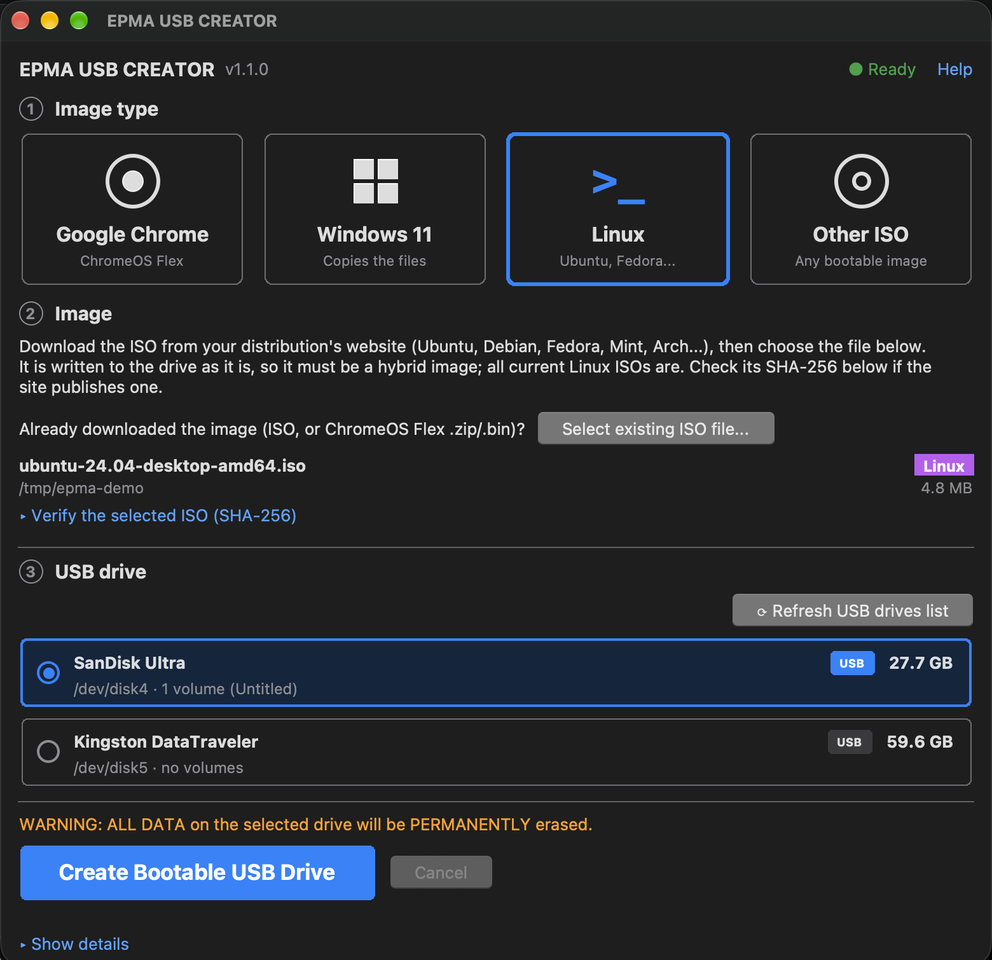
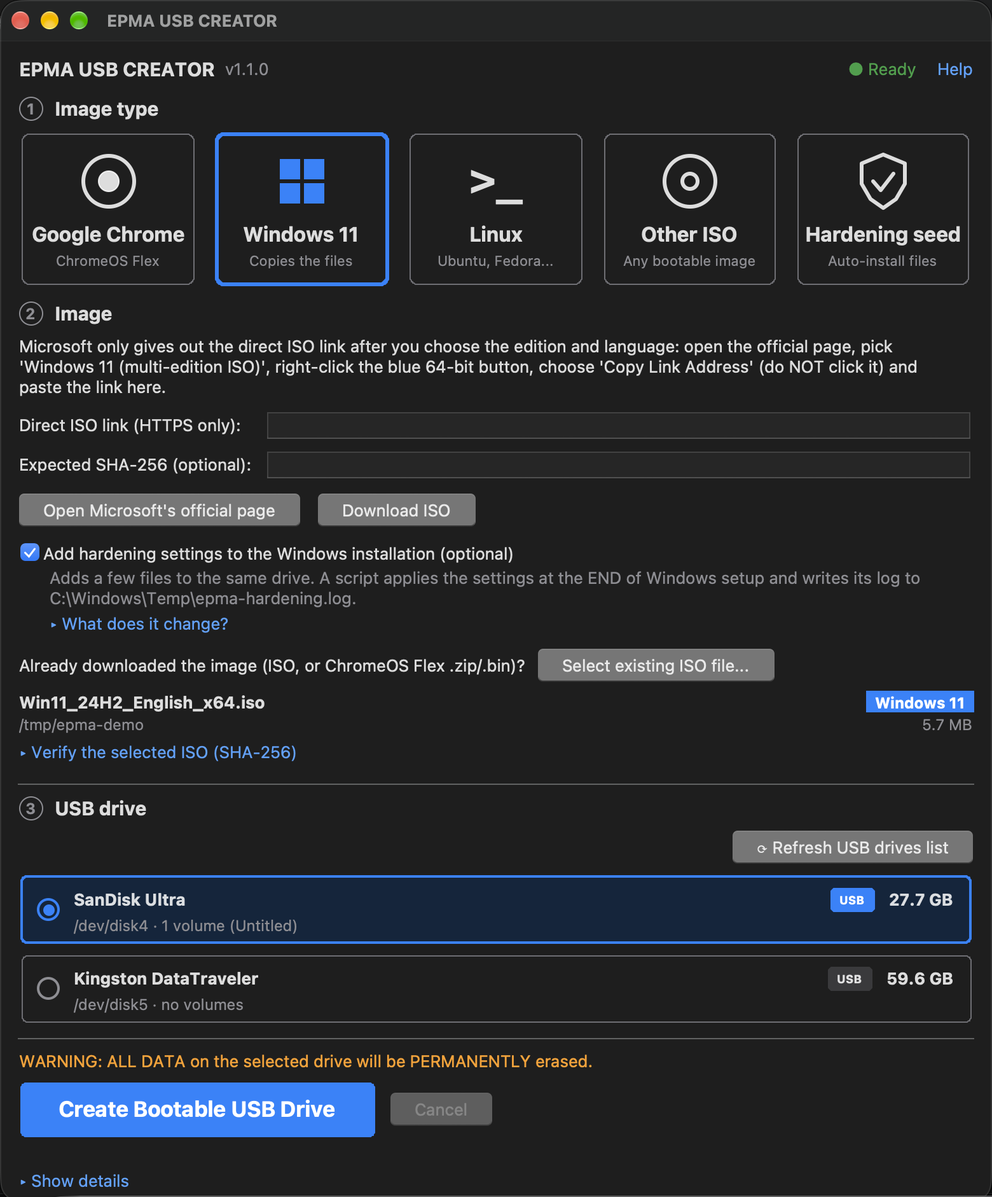
Hardening: documentation, help (F1), README (en/pt-BR), release notes, security notes and screenshots

Changed region(s): [[0.0, 0.0, 1.0, 1.0], [0.8615, 0.0311, 0.9231, 0.0934], [0.9538, 0.0311, 0.9846, 0.0934]]

diff --git a/win11_usb_creator.py b/win11_usb_creator.py
@@ -6634,22 +6634,26 @@ def help_sections():
     critical_mounts = ", ".join(CRITICAL_MOUNTPOINTS)
     retries = DOWNLOAD_MAX_ATTEMPTS - 1
     audit_mb = f"{AUDIT_LOG_MAX_BYTES / 1_000_000:g}"
+    windows_settings = "\n".join("• " + line.split(" -- risk:")[0] for line in
+                                 describe_hardening_windows(HARDENING_BASELINE))
+    windows_not_changed = "\n".join("• " + text + ": " + why for _id, text, why in WINDOWS_HARDENING_NOT_CHANGED)
     return [
         ("Overview", f"""EPMA USB CREATOR {__version__} writes a bootable USB drive from an ISO image on macOS and Linux.
 
-## Four image types (the four cards)
+## Four image types and the hardening seed (five cards)
 • Google Chrome — ChromeOS Flex, Google's free ChromeOS for PCs and Macs. The disk image is written byte for byte, like a Linux ISO. The program can download Google's official image for you.
 • Windows 11 — erases the drive, creates a GPT partition table with one FAT32 partition (label {VOL_NAME}) and copies the files of the ISO. The result boots on UEFI computers. Windows' install.wim / install.esd is usually larger than the 4 GB FAT32 limit, so it is split into .swm parts with wimlib-imagex.
 • Linux and Other ISO — both write the ISO byte for byte to the whole drive (like dd). Use Linux for Ubuntu, Debian, Fedora, Mint, Arch and other "hybrid" images, and Other ISO for any other bootable image. An ISO that cannot boot from a USB drive is refused before anything is erased.
+• Hardening seed (optional, the fifth card) — needs no image. It erases a second, small USB drive and writes auto-install settings on it for Ubuntu, Fedora/RHEL or Debian. See "Hardened setup (optional)".
 
 ## What always happens
 • Only drives attached over USB are offered. The system disk and internal disks are never listed.
 • Everything on the selected drive is erased. Nothing is kept.
-• After writing, the drive is read back and compared with the ISO. Only a drive that passes is ejected.
+• After writing, the drive is read back and compared with the ISO (a hardening seed drive: every file compared byte for byte). Only a drive that passes is ejected.
 
 ## The window, from top to bottom
 • The top row shows the program name and version, a status chip for the tools it needs ("Ready" in green, "Missing tools" in amber with "Install missing dependencies" next to it) and "Help", which opens this documentation (F1 does the same).
-• The page has three numbered steps. 1 Image type: four equal cards choose the type of image (Google Chrome (ChromeOS Flex), Windows 11, Linux and Other ISO).
+• The page has three numbered steps. 1 Image type: five equal cards. Four choose the type of image (Google Chrome (ChromeOS Flex), Windows 11, Linux and Other ISO); the fifth, "Hardening seed", makes a separate drive and needs no image file.
 • 2 Image: the panel under the cards changes with the card and shows where to get that kind of image. "Select existing ISO file..." picks the image you already have; the chosen file is shown with its name, folder, size and the type the program recognised (Windows 11, Linux, ChromeOS Flex or Unknown), with an optional SHA-256 check behind a link.
 • 3 USB drive: the list of USB drives (read when the program starts and whenever you return to the window) and "Refresh USB drives list".
 • "Create Bootable USB Drive" (the blue button), the one "Cancel" button for whatever is running (a download, an extraction or the write), its progress bar, and "Show details", which opens the log.
@@ -6668,7 +6672,10 @@ def help_sections():
 • Plug in the USB drive (8 GB or more) and click "Refresh USB drives list". Select your drive.
 • The "Windows 11" card is chosen for you when the ISO is a Windows installer.
 • Click "Create Bootable USB Drive", read the confirmation (model, size, volumes) and confirm.
-• Wait for the progress bar. When the log says the drive was verified and ejected, unplug it.
+• Wait for the progress bar. When the green box says the drive was verified and ejected, unplug it.
+
+## Optional: hardened settings
+• On the "Windows 11" card, tick "Add hardening settings to the Windows installation (optional)" before you click Create. Click "What does it change?" to read the list. See "Hardened setup (optional)" for what it does and does not do.
 
 ## 3. Boot from it
 • The computer must start in UEFI mode (not Legacy/CSM). The drive is UEFI + GPT only.
@@ -6684,10 +6691,43 @@ def help_sections():
 • Confirm. The administrator password is requested before the drive is touched.
 • The ISO is written, then read back and compared, then the drive is ejected.
 
+## Optional: a hardened install
+• Linux ISOs cannot take extra files after they are written, so the hardening settings go on a SECOND, small USB drive made with the "Hardening seed" card. See "Hardened setup (optional)".
+
 ## 3. On macOS: the drive will not appear in Finder
 • macOS cannot read Linux (ISO 9660 / ext) images, so Finder shows nothing and macOS may say "The disk you attached was not readable".
 • Click "Ignore". Never click "Initialize" — it would erase what was just written.
 • This is normal. The content was already verified byte for byte."""),
+
+        ("Hardened setup (optional)", f"""## What it is
+• Optional files that make a fresh install start from safer settings ("Hardened (recommended settings)"). The settings are inspired by common security baselines. This program does NOT claim that the result complies with, or is certified by, any standard.
+• Nothing here chooses a disk, creates an account or sets a password or key. Windows Setup and the Linux installers stay interactive: you still pick the disk, the language and your own account.
+• Every hardening script prints each change, keeps a backup of anything it modifies and can be undone. They were checked with simulated systems and automated tests only, so try them on a spare computer or a virtual machine before relying on them.
+• Want to read the files first? The command line "harden-files" writes them into a folder without touching any drive.
+
+## Windows 11 (same USB drive)
+• Tick "Add hardening settings to the Windows installation (optional)" on the "Windows 11" card. The files are copied onto the same USB drive and checked byte for byte with the rest.
+• Windows Setup runs a script at the END of the installation. Its log will be C:\\Windows\\Temp\\epma-hardening.log. The script runs once and does not retry: a line marked [WARN] means a setting was not in effect (for example another antivirus or Tamper Protection got in the way).
+• If the image already contains one of these files, the program stops BEFORE erasing the drive and tells you, because the files would replace the image's own.
+
+## What the Windows option changes
+{windows_settings}
+
+## What it deliberately leaves alone
+{windows_not_changed}
+
+## Linux and others (a second USB drive)
+• Choose the "Hardening seed" card, pick the target system, select a small USB drive (64 MiB or more) and click "Create Seed Drive". The drive is erased and checked like any other; it is NOT an installer.
+• Keep your normal installer USB and plug the seed drive in next to it before you start the installer.
+• Ubuntu (autoinstall): the drive is named CIDATA. At the boot menu add the word autoinstall to the boot line (the README.txt on the drive shows the exact steps). Every installer screen stays interactive.
+• Fedora / RHEL (kickstart): the drive is named OEMDRV and the installer finds it by itself. Disk, accounts and the summary stay interactive.
+• Debian (script + preseed): the installer does NOT find this drive by itself. After installing, mount the drive and run the script as administrator (sudo bash harden-linux.sh, or su - if there is no sudo).
+• The script harden-linux.sh is a plain text file on the drive: read it before you use it. It supports --dry-run (changes nothing), --yes, --undo and --help, and it appends to /var/log/epma-hardening.log.
+• It tries not to lock you out of SSH: it only turns off root login or password login when an administrator account with a key exists, and it says so. It does not enable a firewall on a computer that runs Docker, libvirt or LXD unless you pass --yes. Test a second SSH session before you close the first.
+
+## Undo
+• Linux: run the script again with --undo. It restores the files it backed up and removes the ones it created. It does not uninstall packages or turn services off.
+• Windows: the changes are ordinary Windows settings; the log lists each one.""".replace("\\\\", "\\")),
 
         ("ChromeOS Flex", """## What it is
 • ChromeOS Flex is Google's free version of ChromeOS for PCs and Macs. It is the official way to run ChromeOS on a computer you already own: Google does not publish regular ChromeOS for ordinary computers, so this program does not offer it.
@@ -6740,10 +6780,11 @@ def help_sections():
 
         ("The drive and the Create button", f"""## The cards
 • Google Chrome (ChromeOS Flex, disk image written directly), Windows 11 (GPT + FAT32, files copied), Linux and Other ISO (the ISO is written directly). The card is chosen from the image contents when you select a file; you can change it.
+• Hardening seed: a separate small drive (GPT + FAT32) with auto-install files; no image file is needed, so the image step is hidden and the button reads "Create Seed Drive".
 
 ## Dependencies
 • Windows mode needs wimlib (macOS: brew install wimlib). On Linux it also needs parted, mkfs.vfat (dosfstools), wipefs, partprobe, rsync and wimlib-imagex.
-• The Google Chrome, Linux and Other ISO cards need nothing extra.
+• The Google Chrome, Linux and Other ISO cards need nothing extra. The Hardening seed card needs only parted, mkfs.vfat, wipefs and partprobe on Linux and nothing extra on macOS.
 • The dependencies are checked before anything is erased. When one is missing, the Create button stays disabled and a hint says what to install.
 • "Install missing dependencies" uses your package manager (apt-get, dnf, yum, pacman, zypper, apk or Homebrew) and asks for the administrator password on Linux.
 
@@ -9013,7 +9054,7 @@ class App(_TkBase):
             return
         if seed:  # a drive known to be too small is refused now, before the confirmation, not after it
             try:
-                check_seed_target_size(disk_size)  # noqa: F821 - added by the engine part of the hardening feature
+                check_seed_target_size(disk_size)
             except ValueError as e:
                 messagebox.showerror(_("Drive too small"), str(e))
                 return
@@ -10009,7 +10050,7 @@ def _prepare_seed(args):
         raise CliError(f"/dev/{disk_id} is not an eligible USB drive. "
                        f"Run '{CLI_PROG} list' to see the drives that can be written.")
     try:  # a drive known to be too small is refused first: before the plan, the dry run and any confirmation
-        check_seed_target_size(disk.get("size"))  # noqa: F821 - added by the engine part of the hardening feature
+        check_seed_target_size(disk.get("size"))
     except ValueError as e:
         raise CliError(str(e), EXIT_USAGE) from None
     label, files = _hardening_files(args.target)

diff --git a/README.pt-BR.md b/README.pt-BR.md
@@ -18,7 +18,7 @@ Escrita em Python puro com Tkinter — **sem dependências de bibliotecas Python
 [![CI](https://github.com/1985epma/epma-windows-usb-creator/actions/workflows/ci.yml/badge.svg)](https://github.com/1985epma/epma-windows-usb-creator/actions/workflows/ci.yml)
 
 <p align="center">
-  <img src="docs/images/interface.png" alt="Janela do EPMA USB CREATOR: quatro cartões de tipo de imagem (Google Chrome, Windows 11, Linux, Other ISO), a lista de pendrives, o arquivo da imagem com a conferência SHA-256 e o botão Create Bootable USB Drive" width="620">
+  <img src="docs/images/interface.png" alt="Janela do EPMA USB CREATOR: cinco cartões (Google Chrome, Windows 11, Linux, Other ISO, Hardening seed), a opção de reforço do Windows, a lista de pendrives e o botão Create Bootable USB Drive" width="620">
   <br><em>O programa inteiro em uma janela: escolha o tipo de imagem, o pendrive e o arquivo, e crie.</em>
 </p>
 
@@ -57,8 +57,9 @@ Escrita em Python puro com Tkinter — **sem dependências de bibliotecas Python
 - **Conferência SHA-256 de uma ISO que você já tem** (cole o valor esperado ou uma linha de `SHA256SUMS`).
 - **Download com retomada** e novas tentativas automáticas.
 - **Modo linha de comando** (`list`, `write`, `detect`, `sha256`, `--dry-run`, saída JSON, códigos de saída) para scripts.
-- **Documentação integrada**: abra **Help → EPMA USB CREATOR Help** (ou tecle **F1**) para ver guias rápidos, uma referência da janela e dos quatro cartões, segurança, verificação e eject, linha de comando, solução de problemas e os arquivos/configurações usados (a documentação da janela é em inglês).
+- **Documentação integrada**: abra **Help → EPMA USB CREATOR Help** (ou tecle **F1**) para ver guias rápidos, uma referência da janela e dos cinco cartões, segurança, verificação e eject, linha de comando, solução de problemas e os arquivos/configurações usados (a documentação da janela é em inglês).
 - **Verificação de integridade**: downloads só por HTTPS, avisos para servidores desconhecidos e o checksum SHA-256 da imagem baixada.
+- **Reforço da instalação (opcional, experimental):** uma opção do Windows e um pendrive *Hardening seed* para Ubuntu, Fedora/RHEL e Debian que fazem uma instalação nova começar com configurações mais seguras; veja [Reforço da instalação](#reforço-da-instalação-opcional).
 - **Log em tempo real** de todos os comandos executados, dentro da própria janela: abra **Show details** para lê-lo (ele abre sozinho quando uma gravação falha).
 
 ## Novidades da 1.1.0
@@ -173,7 +174,7 @@ python3 win11_usb_creator.py
 
 ### A janela
 
-Uma janela só, com três etapas numeradas — **1 Image type** (quatro cartões), **2 Image** (onde obter e o arquivo) e **3 USB drive** — e o botão **Create**. Um cabeçalho fino mostra a versão, um indicador **Ready** / **Missing tools** das ferramentas necessárias e o **Help**.
+Uma janela só, com três etapas numeradas — **1 Image type** (cinco cartões: os quatro tipos de imagem e o opcional **Hardening seed**), **2 Image** (onde obter e o arquivo) e **3 USB drive** — e o botão **Create**. Um cabeçalho fino mostra a versão, um indicador **Ready** / **Missing tools** das ferramentas necessárias e o **Help**.
 
 1. **Escolha um cartão** — *Google Chrome* (ChromeOS Flex), *Windows 11*, *Linux* ou *Other ISO*. O painel sob os cartões mostra onde obter esse tipo de imagem. Ao selecionar um arquivo de imagem, o cartão certo é escolhido para você, pelo **conteúdo** do arquivo.
 2. **Obtenha a imagem** (pule se já tiver):
@@ -208,6 +209,26 @@ O [ChromeOS Flex](https://support.google.com/chromeosflex/answer/11541904) é a 
 
 O Google lista estes requisitos para o computador: processador Intel ou AMD de 64 bits, 4 GB de RAM, 16 GB de armazenamento interno e boot por USB; só garante modelos certificados ([requisitos](https://support.google.com/chromeosflex/answer/11552529)). O Google também avisa que alguns pendrives podem não funcionar como instaladores. O ChromeOS Flex é fornecido pelo Google sob os termos do próprio Google.
 
+### Reforço da instalação (opcional)
+
+Arquivos opcionais para que uma instalação nova comece com configurações mais seguras. Eles são **inspirados em baselines de segurança comuns**; o programa **não** afirma que o resultado esteja em conformidade com, ou certificado por, qualquer padrão. Nada aqui escolhe disco, cria conta nem define senha ou chave: o Windows Setup e os instaladores Linux continuam interativos.
+
+> **Experimental.** Os scripts foram verificados só com testes automatizados e sistemas simulados (nenhuma instalação real de Windows, Debian, Ubuntu ou Fedora foi executada). Teste primeiro em um computador reserva ou numa máquina virtual e leia os arquivos antes de usar: o `harden-files` grava tudo numa pasta, sem tocar em nenhum pendrive.
+
+<p align="center">
+  <img src="docs/images/interface-hardening.png" alt="O cartão Hardening seed: um segundo pendrive pequeno com configurações de instalação automática, o sistema de destino (Ubuntu, Fedora / RHEL, Debian) e o botão Create Seed Drive" width="620">
+</p>
+
+- **Windows 11 (no mesmo pendrive):** marque **"Add hardening settings to the Windows installation (optional)"** no cartão Windows 11. Um script roda no **fim** da instalação do Windows (log: `C:\Windows\Temp\epma-hardening.log`) e desliga SMBv1 e LLMNR e o AutoRun/AutoPlay, liga o firewall, aplica algumas proteções do Microsoft Defender (uma regra de redução de superfície em modo Block e quatro em modo Audit), desativa o recurso PowerShell 2.0 e o cache de credenciais WDigest, liga o log de blocos de script e uma política de auditoria avançada (o log de Segurança sobe para 128 MiB). **"What does it change?"** lista cada ajuste com o seu risco. BitLocker, níveis de NTLM, contas, discos, idioma e chave do produto não são alterados. Os arquivos são conferidos byte a byte junto com o resto do pendrive, e se a imagem já contiver algum deles o programa para **antes** de apagar qualquer coisa.
+- **Linux e outros (um segundo pendrive):** ISOs gravadas direto não aceitam arquivos extras, então o cartão **Hardening seed** apaga um **segundo pendrive pequeno** (GPT + FAT32) e grava os arquivos nele. Mantenha o pendrive do instalador e conecte o do kit ao lado. **Ubuntu** (`autoinstall`, rótulo `CIDATA`; acrescente `autoinstall` na linha de boot, todas as telas continuam interativas), **Fedora / RHEL** (kickstart, rótulo `OEMDRV`, o instalador encontra sozinho) e **Debian** (o instalador **não** encontra o pendrive: monte-o depois de instalar e rode `sudo bash harden-linux.sh`, ou `su -` se não houver sudo).
+- **O script Linux** (`harden-linux.sh`) é texto puro, aceita `--dry-run`, `--yes`, `--undo` e `--help`, guarda cópia de cada arquivo que altera (`.epma-bak`), mostra cada mudança e grava em `/var/log/epma-hardening.log`. É idempotente e tenta não trancar você para fora: login de root ou por senha no SSH só é desligado quando existe uma conta de administrador com chave, e o firewall não é ligado num computador com Docker, libvirt ou LXD, a não ser que você use `--yes`.
+
+```bash
+python3 win11_usb_creator.py harden-files --target ubuntu --out ./ubuntu-seed          # só os arquivos, sem pendrive
+python3 win11_usb_creator.py harden-seed --target fedora --disk disk4 --dry-run        # plano de um pendrive de kit
+python3 win11_usb_creator.py write --iso Win11.iso --disk disk4 --hardened             # Windows + arquivos de reforço
+```
+
 ### Linha de comando
 
 O mesmo motor está disponível sem a janela (não precisa de Tkinter):
@@ -222,6 +243,8 @@ python3 win11_usb_creator.py write --iso ubuntu.iso --disk disk4             # p
 python3 win11_usb_creator.py fetch-chromeos --dest ~/Downloads               # ChromeOS Flex: baixar + extrair
 python3 win11_usb_creator.py write --iso ~/Downloads/<imagem>.bin --disk disk4 --mode chromeos
 ```
+
+Os comandos de reforço (`harden-files`, `harden-seed`, `write --hardened`) estão em [Reforço da instalação](#reforço-da-instalação-opcional).
 
 O `write` sempre verifica o pendrive e exige que você digite o identificador do disco (ou `--yes` quando não há terminal). Não existe opção para pular a verificação. Sem argumentos, abre a janela.
 
@@ -250,6 +273,7 @@ Esta aplicação **apaga completamente** o disco selecionado e executa comandos 
 - **Conferido antes de apagar:** ferramentas ausentes são detectadas de início (Create fica desativado com uma dica), uma ISO do Windows maior que o pendrive é recusada, e fechar a janela durante a gravação pede confirmação antes.
 - **Nada é repetido às cegas:** um script privilegiado que falha nunca é executado uma segunda vez.
 - **Verificado antes do eject:** uma diferença aborta sem ejetar e o pendrive é declarado inutilizável.
+- **Os arquivos de reforço são dados, não decisões:** nunca escolhem nem apagam um disco, nunca criam conta e nunca trazem senha ou chave; o pendrive do kit é apagado como qualquer outro alvo e passa pelas mesmas conferências, e uma imagem que já traz os mesmos arquivos é recusada antes de qualquer coisa ser apagada.
 
 > Mesmo assim: **confira duas vezes o disco selecionado antes de confirmar.**
 

diff --git a/README.md b/README.md
@@ -15,7 +15,7 @@ Written in pure Python with Tkinter — **zero third-party Python dependencies**
 [![CI](https://github.com/1985epma/epma-windows-usb-creator/actions/workflows/ci.yml/badge.svg)](https://github.com/1985epma/epma-windows-usb-creator/actions/workflows/ci.yml)
 
 <p align="center">
-  <img src="docs/images/interface.png" alt="EPMA USB CREATOR window: four image-type cards (Google Chrome, Windows 11, Linux, Other ISO), the USB drive list, the image file with its SHA-256 check, and the Create Bootable USB Drive button" width="620">
+  <img src="docs/images/interface.png" alt="EPMA USB CREATOR window: five cards (Google Chrome, Windows 11, Linux, Other ISO, Hardening seed), the Windows hardening option, the USB drive list and the Create Bootable USB Drive button" width="620">
   <br><em>The whole program in one window: choose the image type, the drive and the file, then create it.</em>
 </p>
 
@@ -54,8 +54,9 @@ Written in pure Python with Tkinter — **zero third-party Python dependencies**
 - **SHA-256 check for an ISO you already have** (paste the expected value or a `SHA256SUMS` line).
 - **Resumable downloads** with automatic retries.
 - **Command line mode** (`list`, `write`, `detect`, `sha256`, `--dry-run`, JSON output, exit codes) for scripts.
-- **Built-in documentation**: open **Help → EPMA USB CREATOR Help** (or press **F1**) for quick starts, a reference for the window and its four cards, safety, verification and eject, the command line, troubleshooting and the files/settings the program uses.
+- **Built-in documentation**: open **Help → EPMA USB CREATOR Help** (or press **F1**) for quick starts, a reference for the window and its five cards, safety, verification and eject, the command line, troubleshooting and the files/settings the program uses.
 - **Integrity verification**: HTTPS-only downloads, warnings for unrecognised servers, and a SHA-256 checksum of the downloaded image.
+- **Hardened setup (optional, experimental):** a Windows option and a *Hardening seed* drive for Ubuntu, Fedora/RHEL and Debian that start a fresh install from safer settings; see [Hardened setup](#hardened-setup-optional).
 - **Real-time log** of every command executed, inside the application window: open **Show details** to read it (it opens by itself when a write fails).
 
 ## New in 1.1.0
@@ -170,7 +171,7 @@ python3 win11_usb_creator.py
 
 ### The window
 
-One window with three numbered steps — **1 Image type** (four cards), **2 Image** (where to get it, and the file) and **3 USB drive** — and the **Create** button. A slim header shows the version, a **Ready** / **Missing tools** chip for the tools the program needs, and **Help**.
+One window with three numbered steps — **1 Image type** (five cards: the four image types and the optional **Hardening seed**), **2 Image** (where to get it, and the file) and **3 USB drive** — and the **Create** button. A slim header shows the version, a **Ready** / **Missing tools** chip for the tools the program needs, and **Help**.
 
 1. **Choose a card** — *Google Chrome* (ChromeOS Flex), *Windows 11*, *Linux* or *Other ISO*. The panel under the cards shows where to get that kind of image. Selecting an image file picks the right card for you, from the **contents** of the file.
 2. **Get the image** (skip this if you already have it):
@@ -205,6 +206,26 @@ The interface is always in US English. A Brazilian Portuguese translation exists
 
 Google lists these requirements for the computer: Intel or AMD 64-bit processor, 4 GB of RAM, 16 GB of internal storage and USB boot; it only guarantees certified models ([requirements](https://support.google.com/chromeosflex/answer/11552529)). Google also notes that some USB drives may not work as installers. ChromeOS Flex is provided by Google under Google's own terms.
 
+### Hardened setup (optional)
+
+Optional files that make a fresh install start from safer settings. They are **inspired by common security baselines**; the program does **not** claim that the result complies with, or is certified by, any standard. Nothing here chooses a disk, creates an account or sets a password or key: Windows Setup and the Linux installers stay interactive.
+
+> **Experimental.** The scripts were checked with automated tests and simulated systems only (no real Windows, Debian, Ubuntu or Fedora install was run). Try them on a spare computer or a virtual machine first, and read the files before using them: `harden-files` writes them to a folder without touching any drive.
+
+<p align="center">
+  <img src="docs/images/interface-hardening.png" alt="The Hardening seed card: a second small USB drive with auto-install settings, the install target (Ubuntu, Fedora / RHEL, Debian) and the Create Seed Drive button" width="620">
+</p>
+
+- **Windows 11 (same USB drive):** tick **"Add hardening settings to the Windows installation (optional)"** on the Windows 11 card. A script runs at the **end** of Windows Setup (log: `C:\Windows\Temp\epma-hardening.log`) and turns off SMBv1 and LLMNR, AutoRun/AutoPlay, turns the firewall on, sets a few Microsoft Defender protections (one attack-surface rule in Block mode, four in Audit mode), disables the PowerShell 2.0 feature and WDigest credential caching, turns on script-block logging and an advanced audit policy (the Security log is raised to 128 MiB). **"What does it change?"** lists every setting with its risk. BitLocker, NTLM levels, accounts, disks, language and the product key are left alone. The files are checked byte for byte with the rest of the drive, and if the image already contains one of them the program stops **before** erasing anything.
+- **Linux and others (a second USB drive):** raw-written ISOs cannot take extra files, so the **Hardening seed** card erases a **second, small** USB drive (GPT + FAT32) and writes the files on it. Keep your installer USB and plug the seed drive in next to it. **Ubuntu** (`autoinstall`, drive label `CIDATA`; add `autoinstall` to the boot line, every screen stays interactive), **Fedora / RHEL** (kickstart, label `OEMDRV`, found by the installer by itself) and **Debian** (the installer does **not** find the drive: mount it after installing and run `sudo bash harden-linux.sh`, or `su -` without sudo).
+- **The Linux script** (`harden-linux.sh`) is plain text, supports `--dry-run`, `--yes`, `--undo` and `--help`, backs up every file it changes (`.epma-bak`), prints each change and logs to `/var/log/epma-hardening.log`. It is idempotent and tries not to lock you out: root or password login over SSH is only turned off when an administrator account with a key exists, and a firewall is not enabled on a computer that runs Docker, libvirt or LXD unless you pass `--yes`.
+
+```bash
+python3 win11_usb_creator.py harden-files --target ubuntu --out ./ubuntu-seed          # just the files, no drive
+python3 win11_usb_creator.py harden-seed --target fedora --disk disk4 --dry-run        # plan for a seed drive
+python3 win11_usb_creator.py write --iso Win11.iso --disk disk4 --hardened             # Windows + hardening files
+```
+
 ### Command line
 
 The same engine is available without the window (no Tkinter needed):
@@ -219,6 +240,8 @@ python3 win11_usb_creator.py write --iso ubuntu.iso --disk disk4             # a
 python3 win11_usb_creator.py fetch-chromeos --dest ~/Downloads               # ChromeOS Flex: download + extract
 python3 win11_usb_creator.py write --iso ~/Downloads/<image>.bin --disk disk4 --mode chromeos
 ```
+
+The hardening commands (`harden-files`, `harden-seed`, `write --hardened`) are shown in [Hardened setup](#hardened-setup-optional).
 
 `write` always verifies the drive and requires you to type the disk identifier (or pass `--yes` when there is no terminal). It never offers a way to skip verification. Run with no arguments to open the window.
 
@@ -247,6 +270,7 @@ This application **completely erases** the selected disk and executes privileged
 - **Checked before anything is erased:** missing tools are detected up front (Create stays disabled with a hint), a Windows ISO larger than the drive is refused, and closing the window during a write asks for confirmation first.
 - **Nothing is retried blindly:** a privileged script that fails is never run a second time.
 - **Verified before eject:** a mismatch aborts without ejecting and the drive is reported as unusable.
+- **Hardening files are data, not decisions:** they never select or erase a disk, never create an account and never contain a password or key; a seed drive is erased like any other target and goes through the same checks, and an image that already ships the same files is refused before anything is erased.
 
 > Even so: **double-check the selected disk before confirming.**
 

diff --git a/CHANGELOG.md b/CHANGELOG.md
@@ -11,8 +11,41 @@ heading matches the pushed tag as the GitHub release notes: tag `v1.1.0` uses th
 
 ## [Unreleased]
 
+### Added
+
+- **Hardened setup (optional, experimental).** Files that make a fresh install start from safer
+  settings, "inspired by common security baselines" (no claim of compliance or certification).
+  Nothing in them selects a disk, creates an account or contains a password or key.
+  - **Windows 11:** the checkbox *Add hardening settings to the Windows installation (optional)*
+    copies `SetupComplete.cmd` and `harden.ps1` into `sources\$OEM$` of the same USB drive. The script runs at
+    the end of Windows Setup and writes `C:\Windows\Temp\epma-hardening.log`: SMBv1, LLMNR and AutoRun
+    off, firewall on, a few Microsoft Defender protections (one attack-surface rule in Block mode, four in
+    Audit mode), PowerShell 2.0 and WDigest off, script-block logging, an advanced audit policy (Security
+    log raised to 128 MiB). BitLocker, NTLM levels, accounts, disks and the product key are not touched.
+    *What does it change?* lists every setting with its risk. The extra files are compared byte for byte
+    with the rest of the drive, and an image that already ships one of them is refused before anything is erased.
+  - **Hardening seed card** (fifth card): erases a second, small USB drive (GPT + FAT32) and writes the
+    auto-install files for **Ubuntu** (`autoinstall`, label `CIDATA`), **Fedora / RHEL** (kickstart,
+    label `OEMDRV`) and **Debian** (preseed + script; the installer does not detect the drive, so the
+    recommended path is to run the script after installing). Storage and the user account stay interactive in
+    every installer. Same safety chain as any write: confirmation, typed identifier for high-risk drives,
+    password, pinned identity, byte-for-byte verification, eject.
+  - **`harden-linux.sh`:** idempotent, `--dry-run`, `--yes`, `--undo`, `--chroot`, `--help`; backs up each file
+    it changes; sysctl, SSH, firewall (ufw / firewalld), automatic security updates, auditd, rarely used
+    kernel modules, core dumps. It only turns off SSH root or password login when an administrator account with a key
+    exists, only raises sysctl values, and does not enable a firewall on a computer that runs Docker,
+    libvirt or LXD unless `--yes` is given.
+  - **Command line:** `write --hardened` (Windows only), `harden-seed --target ubuntu|fedora|debian --disk DISK`
+    and `harden-files --target windows|ubuntu|fedora|debian --out DIR` (writes the files to a new or empty
+    folder, no drive involved, so you can read them first).
+  - **Not verified:** the PowerShell script was never executed (no PowerShell here) and the Linux script and seeds were
+    only run against simulated systems; real Windows, Ubuntu, Fedora and Debian installs, and the loop-device end-to-end
+    tests, were not run when this was written. Try it on a spare computer or a virtual machine first. Two auditpol
+    sub-category GUIDs were written from memory (a wrong one only makes that line of the log say so).
+
 ### Changed
 
+- **Five cards.** The fifth card, *Hardening seed*, needs no image file (see above).
 - **Quieter window.** *Create Bootable USB Drive* is now a filled accent-colour button and the
   only highlighted element; there is a single *Cancel* button that stops whatever is running
   (a download, an extraction or the write) instead of three. The erase warning is one amber

diff --git a/SECURITY.md b/SECURITY.md
@@ -187,6 +187,12 @@ writes the same files into a folder, without a drive.
   supports `--dry-run` (which changes nothing), keeps one backup (`.epma-bak`) of every file it modifies and
   is safe to run twice. They are written not to lock the administrator out: the only login path is never
   disabled and no SSH port in use is closed.
+- **Nothing of the image is overwritten silently.** If the Windows image already contains one of the hardening
+  files, `write --hardened` (and the window) refuse **before** the drive is touched; the seed drive is a separate,
+  erased-like-any-other target with the same confirmation, identity pinning, verification and eject rules.
+- **Experimental.** The PowerShell script was never executed by the authors' tooling (no PowerShell available) and
+  the Linux script and seeds were run only against simulated systems; real installs were not tested. Treat the
+  feature as experimental and try it on a spare computer or a virtual machine first.
 - **This is not a compliance claim.** The settings are inspired by common baselines, nothing more. The
   program does not certify, audit or claim that a system meets any standard or regulation; review the
   settings against your own requirements.
